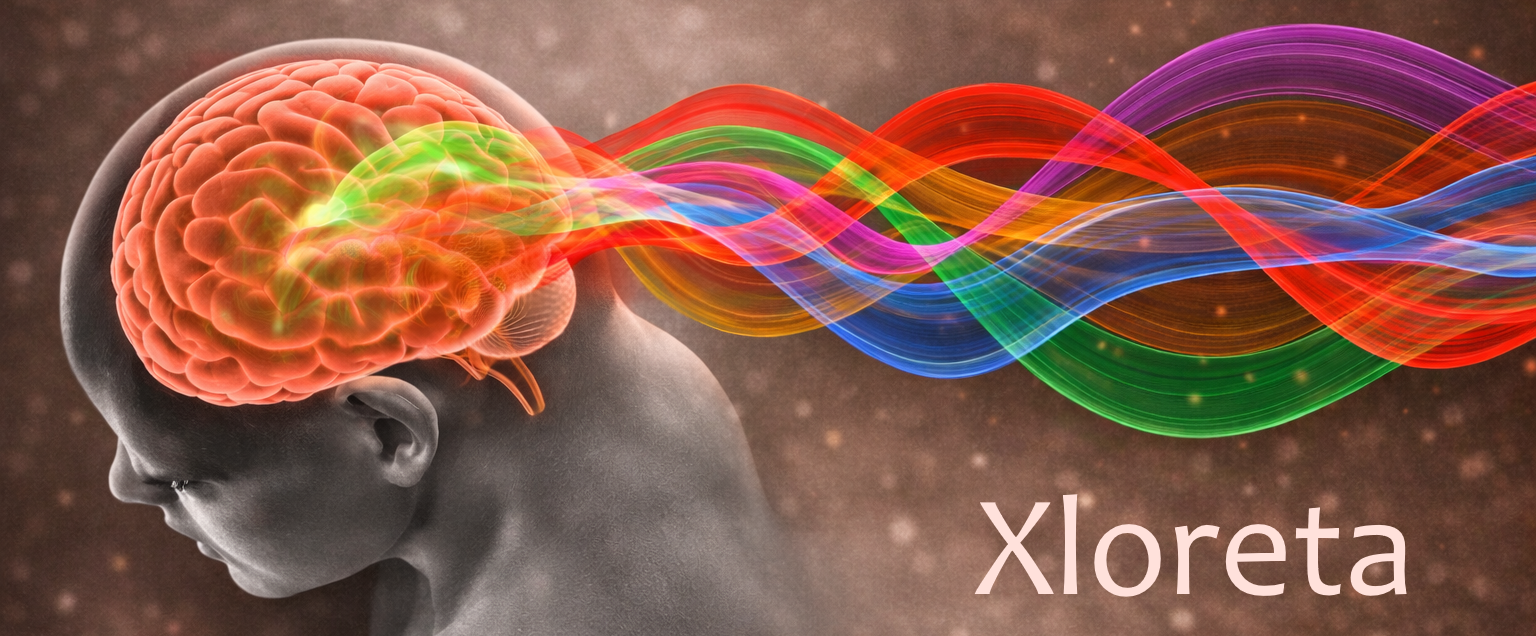
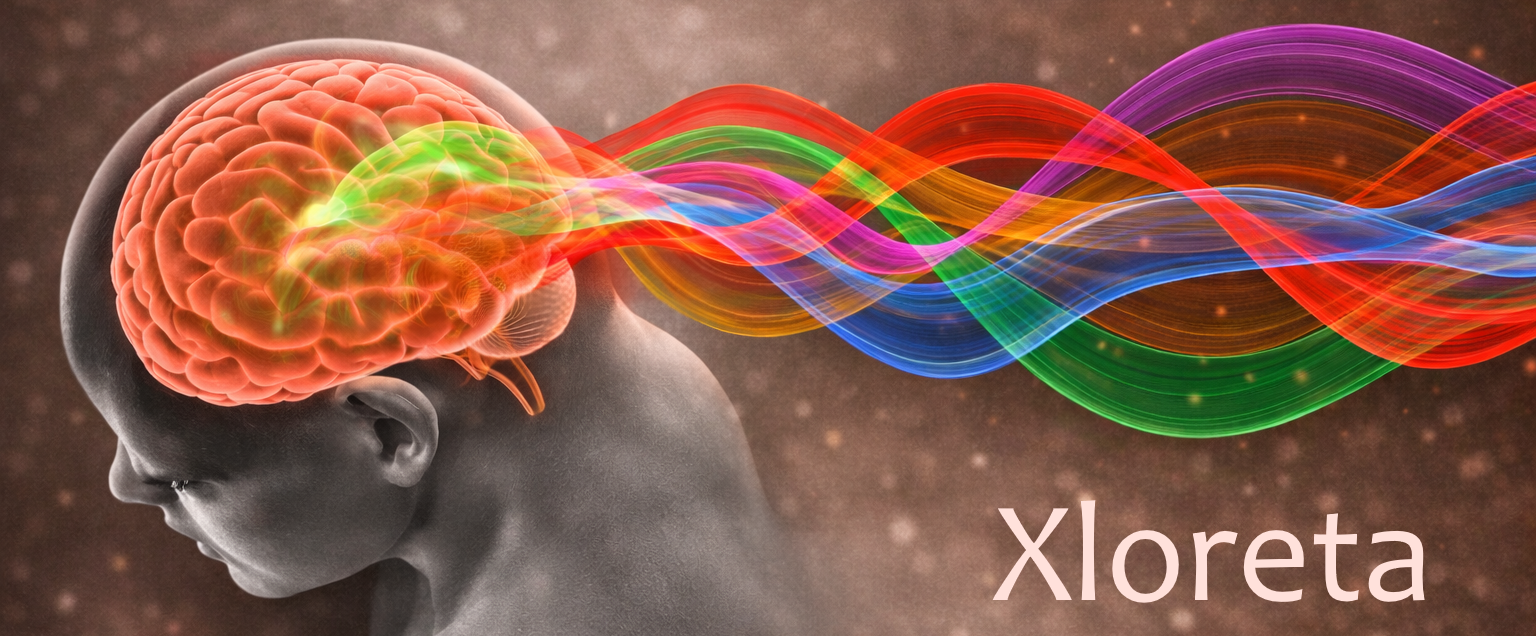
dev

Changed region(s): [[0.625, 0.7767, 0.9375, 0.956]]

diff --git a/README.md b/README.md
@@ -1,6 +1,7 @@
-> In memory of **Ferdinando Lopes Da Silva**
 
 ![header](Documents/header.png)
+
+---
 
 > [!TIP] 
 > 🦅
@@ -8,7 +9,9 @@
 
 ---
 
-**Loreta** is a pure-[julia](https://julialang.org/) 100%-human package for computing, testing and using human EEG 
+# Xloreta
+
+This is a pure-[julia](https://julialang.org/) 100%-human package for computing, testing and using human EEG 
 (Electroencephalography) inverse solutions of the *Minimum Norm* family. Particularly, it implements the following vector-type distributed inverse solutions:
 - *weighted minimum norm* — see [^1] for a review,
 - *standardized Low-Resolution Electromagnetic Tomography* (sLORETA) [^2],
